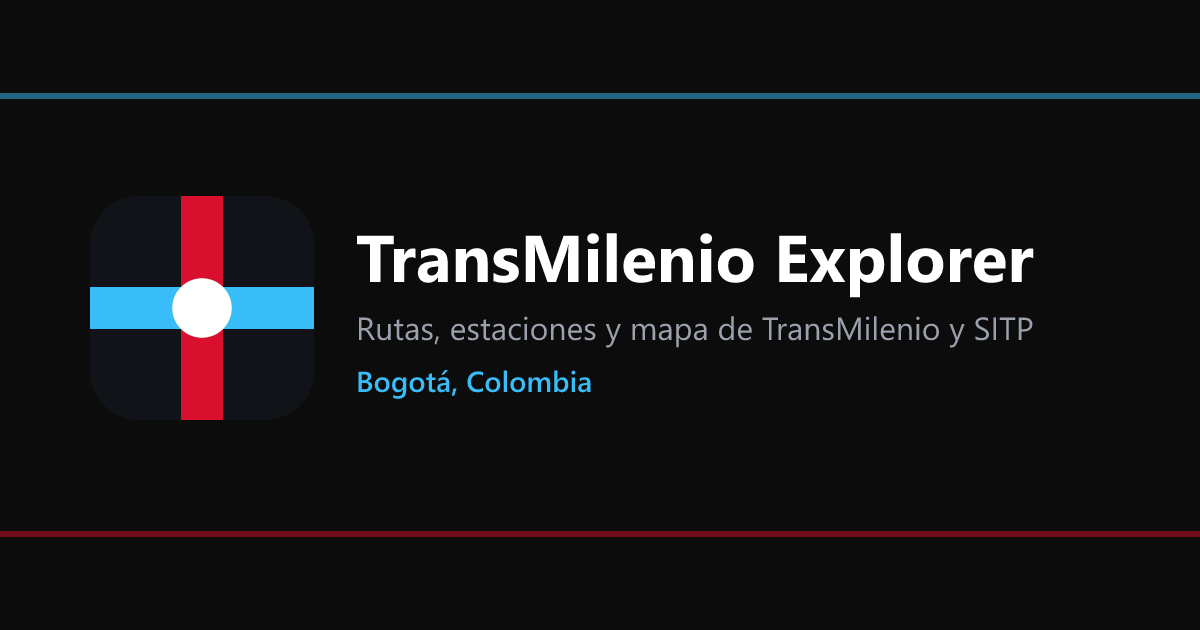
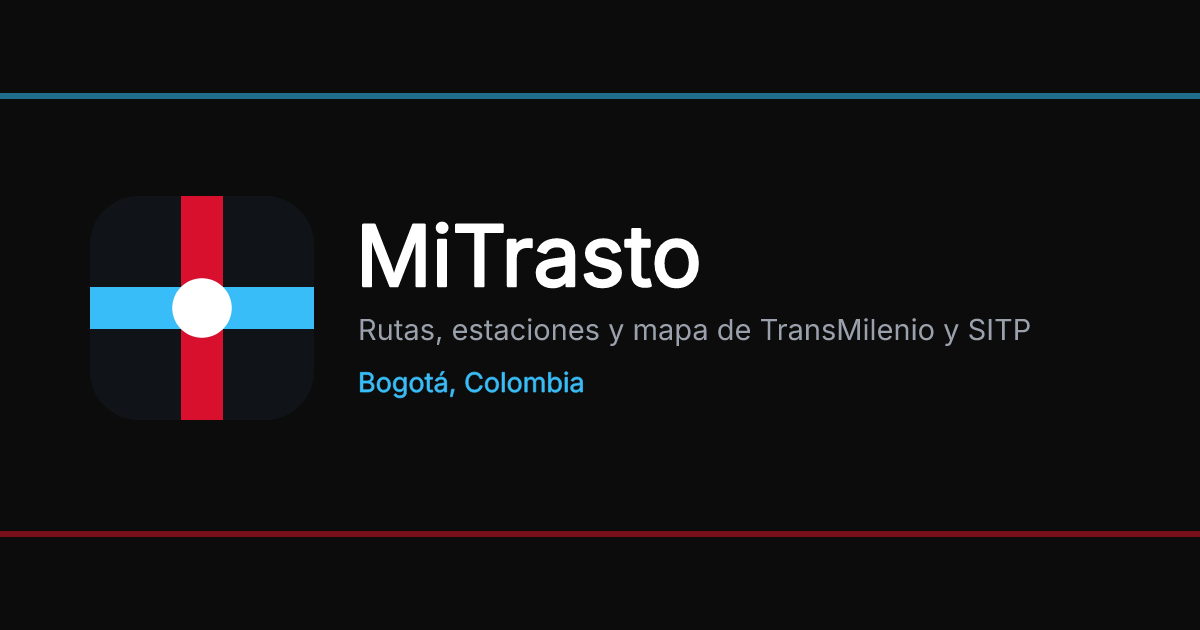
feat(brand): rename the site and the app to MiTrasto

Changed region(s): [[0.2775, 0.3317, 0.8633, 0.5429], [0.2775, 0.573, 0.4933, 0.6333]]

diff --git a/client/index.html b/client/index.html
@@ -6,7 +6,7 @@
        1.4.4 failure, and the ctrl+wheel guard below already keeps a trackpad from
        zooming the shell on desktop. -->
   <meta name="viewport" content="width=device-width, initial-scale=1.0, viewport-fit=cover" />
-  <title>TransMilenio Explorer — Rutas y mapa de TransMilenio y SITP</title>
+  <title>MiTrasto — Rutas y mapa de TransMilenio y SITP</title>
   <meta name="description" content="Explora todas las rutas de TransMilenio y SITP en Bogotá. Visualiza estaciones, paraderos y trazados en un mapa interactivo." />
   <!-- Google's favicon pipeline wants a raster at a multiple of 48px and is
        unreliable on SVG-only sites, which is why the search result rendered a
@@ -25,24 +25,24 @@
   <link rel="canonical" href="https://mitrasto.app/" />
   <meta name="robots" content="index, follow, max-image-preview:large" />
   <meta property="og:type" content="website" />
-  <meta property="og:site_name" content="TransMilenio Explorer" />
+  <meta property="og:site_name" content="MiTrasto" />
   <meta property="og:locale" content="es_CO" />
   <meta property="og:url" content="https://mitrasto.app/" />
-  <meta property="og:title" content="TransMilenio Explorer — Rutas y mapa de TransMilenio y SITP" />
+  <meta property="og:title" content="MiTrasto — Rutas y mapa de TransMilenio y SITP" />
   <meta property="og:description" content="Explora todas las rutas de TransMilenio y SITP en Bogotá. Visualiza estaciones, paraderos y trazados en un mapa interactivo." />
   <meta property="og:image" content="https://mitrasto.app/og-card.png" />
   <meta property="og:image:width" content="1200" />
   <meta property="og:image:height" content="630" />
-  <meta property="og:image:alt" content="TransMilenio Explorer — rutas, estaciones y mapa de TransMilenio y SITP en Bogotá" />
+  <meta property="og:image:alt" content="MiTrasto — rutas, estaciones y mapa de TransMilenio y SITP en Bogotá" />
   <meta name="twitter:card" content="summary_large_image" />
-  <meta name="twitter:title" content="TransMilenio Explorer — Rutas y mapa de TransMilenio y SITP" />
+  <meta name="twitter:title" content="MiTrasto — Rutas y mapa de TransMilenio y SITP" />
   <meta name="twitter:description" content="Explora todas las rutas de TransMilenio y SITP en Bogotá. Visualiza estaciones, paraderos y trazados en un mapa interactivo." />
   <meta name="twitter:image" content="https://mitrasto.app/og-card.png" />
   <script type="application/ld+json">
   {
     "@context": "https://schema.org",
     "@type": "WebApplication",
-    "name": "TransMilenio Explorer",
+    "name": "MiTrasto",
     "url": "https://mitrasto.app/",
     "description": "Explora todas las rutas de TransMilenio y SITP en Bogotá. Visualiza estaciones, paraderos y trazados en un mapa interactivo.",
     "applicationCategory": "TravelApplication",
@@ -72,8 +72,8 @@
   <!-- Loading Overlay -->
   <div id="loading-overlay" class="loading-overlay">
     <div class="loading-content">
-      <img class="loading-logo" src="/icon-192.png" alt="TransMilenio Explorer" width="72" height="72" />
-      <h2 class="loading-title">TransMilenio Explorer</h2>
+      <img class="loading-logo" src="/icon-192.png" alt="MiTrasto" width="72" height="72" />
+      <h2 class="loading-title">MiTrasto</h2>
       <div class="loading-bar">
         <div id="loading-bar-fill" class="loading-bar-fill"></div>
       </div>
@@ -106,10 +106,10 @@
     </button>
     <div class="sidebar-header">
       <div class="brand">
-        <img class="brand-logo" src="/icon-192.png" alt="TransMilenio Explorer" width="48" height="48" />
+        <img class="brand-logo" src="/icon-192.png" alt="MiTrasto" width="48" height="48" />
         <div class="brand-text">
-          <span class="brand-title">TransMilenio</span>
-          <span class="brand-subtitle">Explorer</span>
+          <span class="brand-title">MiTrasto</span>
+          <span class="brand-subtitle">Rutas de Bogotá</span>
         </div>
       </div>
       <button id="sidebar-toggle" class="sidebar-toggle" type="button" aria-controls="sidebar" aria-expanded="true" aria-label="Ocultar panel" title="Ocultar panel">

diff --git a/client/src/main.ts b/client/src/main.ts
@@ -1,5 +1,5 @@
 /**
- * TransMilenio Explorer — Main Entry Point
+ * MiTrasto — Main Entry Point
  *
  * Bootstraps the map, loads data from the backend proxy,
  * and wires up the sidebar UI.
@@ -613,7 +613,7 @@ async function getIpLocation(): Promise<{ longitude: number; latitude: number; a
 // ─── Main ─────────────────────────────────────────────────
 
 async function main(): Promise<void> {
-  console.log('🚌 TransMilenio Explorer starting...');
+  console.log('🚌 MiTrasto starting...');
   clearLegacyExactLocation();
 
   // Inside the Android shell (mobile/), mark the DOM so the stylesheet can
@@ -1323,7 +1323,7 @@ async function main(): Promise<void> {
   }
 
   // 4. Done with initial render!
-  console.log('🎉 TransMilenio Explorer initial render ready!');
+  console.log('🎉 MiTrasto initial render ready!');
   updateProgress(100, '¡Listo!');
   setTimeout(() => {
     hideLoading();
@@ -1395,7 +1395,7 @@ async function main(): Promise<void> {
       console.log(`✅ Background load: Stop-route mappings: ${zonalStopRoutesRes.features.length}`);
 
       if (applyZonalStops(zonalStopsRes.features, zonalStopRoutesRes.features)) {
-        console.log('🎉 TransMilenio Explorer background load & enrichment complete!');
+        console.log('🎉 MiTrasto background load & enrichment complete!');
       } else {
         degradedLayers.add('stops');
         console.warn('⚠ Zonal paraderos unavailable — scheduling recovery');

diff --git a/client/mobile/index.html b/client/mobile/index.html
@@ -8,8 +8,8 @@
        canvas, so the map still pans/zooms as itself. -->
   <meta name="viewport" content="width=device-width, initial-scale=1.0, viewport-fit=cover" />
   <meta name="theme-color" content="#070b12" />
-  <title>TransMi Go</title>
-  <meta name="description" content="TransMi Go — la app nativa para moverte en TransMilenio y SITP: rutas en vivo, buses en tiempo real, saldo y planificador." />
+  <title>MiTrasto</title>
+  <meta name="description" content="MiTrasto — la app nativa para moverte en TransMilenio y SITP: rutas en vivo, buses en tiempo real, saldo y planificador." />
   <link rel="icon" type="image/svg+xml" href="/favicon.svg" />
   <!-- Fonts ship INSIDE the APK (@font-face in app.css). The app is offline-first
        (spec §5.2.1b) — a fonts.googleapis.com stylesheet was a hard network
@@ -25,7 +25,7 @@
       <span class="boot-ring"></span>
       <img class="boot-logo" src="/icon-192.png" alt="" width="64" height="64" />
     </div>
-    <div class="boot-name">TransMi <b>Go</b></div>
+    <div class="boot-name">Mi<b>Trasto</b></div>
     <div class="boot-status" id="boot-status" role="status" aria-live="polite">Encendiendo motores…</div>
     <div class="boot-track"><span id="boot-fill" class="boot-fill"></span></div>
     <!-- A failed boot used to be a dead end: the only way out was force-quitting

diff --git a/client/src/ui/pageShell.ts b/client/src/ui/pageShell.ts
@@ -265,11 +265,11 @@ export function mastheadHtml(): string {
           <svg width="16" height="16" viewBox="0 0 24 24" fill="none" stroke="currentColor" stroke-width="2.2" stroke-linecap="round" stroke-linejoin="round" aria-hidden="true"><path d="M15 18l-6-6 6-6"/></svg>
           <span>Ver en el mapa</span>
         </button>
-        <a class="page-brand" href="/" aria-label="Inicio — TransMilenio Explorer">
+        <a class="page-brand" href="/" aria-label="Inicio — MiTrasto">
           <img class="page-logo" src="/icon-192.png" alt="" width="34" height="34" />
           <span class="page-brand-text">
-            <span class="page-brand-title">TransMilenio</span>
-            <span class="page-brand-sub">Explorer</span>
+            <span class="page-brand-title">MiTrasto</span>
+            <span class="page-brand-sub">Rutas de Bogotá</span>
           </span>
         </a>
         <button class="page-share" type="button" aria-label="Copiar enlace a esta página" title="Copiar enlace a esta página">

diff --git a/client/mobile/src/views/inicio.ts b/client/mobile/src/views/inicio.ts
@@ -22,7 +22,7 @@ export function createInicioView(): View {
     h('div', { class: 'hero-row' }, [
       h('div', {}, [
         h('div', { class: 'hero-greeting', text: greeting() }),
-        h('div', { class: 'hero-brand', html: 'TransMi <b>Go</b>' }),
+        h('div', { class: 'hero-brand', html: 'Mi<b>Trasto</b>' }),
       ]),
       h('div', { class: 'hero-clock-wrap' }, [h('span', { class: 'hero-clock-icon', html: ICONS.clock }), clock]),
     ]),
@@ -99,7 +99,7 @@ export function createInicioView(): View {
         install.disabled = false;
         install.textContent = 'Actualizar';
         if (outcome === 'sin-permiso') {
-          note.textContent = 'Android necesita que permitas a TransMi Go instalar la actualización.';
+          note.textContent = 'Android necesita que permitas a MiTrasto instalar la actualización.';
         }
       });
     });

diff --git a/server/src/llms_txt.ts b/server/src/llms_txt.ts
@@ -62,7 +62,7 @@ export function renderLlmsTxt(input: LlmsInput): string {
   const stations = [...input.stations].sort((a, b) => a.nombre.localeCompare(b.nombre, 'es', { sensitivity: 'base' }));
 
   return [
-    '# TransMilenio Explorer',
+    '# MiTrasto',
     '',
     '> Aplicación web independiente y no oficial sobre el sistema TransMilenio de Bogotá: cada ruta troncal, alimentadora y padrón con sus paradas y horarios, cada estación con un plano de en qué vagón se toma cada servicio, llegadas en vivo y un planeador de viajes. No está afiliada a TRANSMILENIO S.A.',
     '',

diff --git a/client/style.css b/client/style.css
@@ -1,5 +1,5 @@
 /* ═══════════════════════════════════════════════════════════
-   TransMilenio Explorer — Design System
+   MiTrasto — Design System
    Dark theme with TransMilenio red accent
    ═══════════════════════════════════════════════════════════ */
 

diff --git a/client/mobile/src/voice/session.ts b/client/mobile/src/voice/session.ts
@@ -243,7 +243,7 @@ async function resolveSpokenCode(
 
   // Said nothing (or nothing we could place): fall back to the route this rider
   // asks about at this hour. Silence is the common case — the whole point of the
-  // hot mic is that "abre TransMi Go" alone can be enough.
+  // hot mic is that "abre MiTrasto" alone can be enough.
   const predicted = predictRoute();
   return { ...base, code: predicted, predicted: predicted !== null, outcome: result.outcome };
 }

diff --git a/client/mobile/src/voice/predict.ts b/client/mobile/src/voice/predict.ts
@@ -2,7 +2,7 @@
  * The route the rider probably means (spec §5.9).
  *
  * This is what collapses the interaction to a single utterance. "Hey Google, abre
- * TransMi Go" opens the app with the mic hot; if the rider then says nothing, the
+ * MiTrasto" opens the app with the mic hot; if the rider then says nothing, the
  * answer they wanted is usually the route they ask about at this hour anyway, and
  * guessing it costs nothing — they can still speak over it.
  *

diff --git a/server/src/seo_og.ts b/server/src/seo_og.ts
@@ -214,7 +214,7 @@ function arrowSvg(x: number, y: number, w: number, color: string): string {
 }
 
 const header = () => `${markSvg(64, 56, 44)}
-  <text x="124" y="87" font-family="Inter" font-size="24" fill="${DIM}">TransMilenio Explorer</text>`;
+  <text x="124" y="87" font-family="Inter" font-size="24" fill="${DIM}">MiTrasto</text>`;
 
 const footer = () =>
   `<text x="64" y="${HEIGHT - 44}" font-family="Inter" font-size="22" fill="#6B7280">mitrasto.app</text>`;

diff --git a/client/mobile/src/app.css b/client/mobile/src/app.css
@@ -1,5 +1,5 @@
 /* ============================================================
-   TransMi Go — mobile app design system
+   MiTrasto — mobile app design system
    A dark "transit OS": bottom-tab shell, glass sheets, line color.
    Deliberately unlike the website's map+sidebar chrome.
    ============================================================ */

diff --git a/client/mobile/src/main.ts b/client/mobile/src/main.ts
@@ -1,5 +1,5 @@
 /**
- * TransMi Go — native mobile app entry.
+ * MiTrasto — native mobile app entry.
  *
  * A ground-up app UI (bottom-tab shell, bottom sheets, live dashboard) that
  * shares ONLY the website's data/service layer (`@shared`), never its look.
